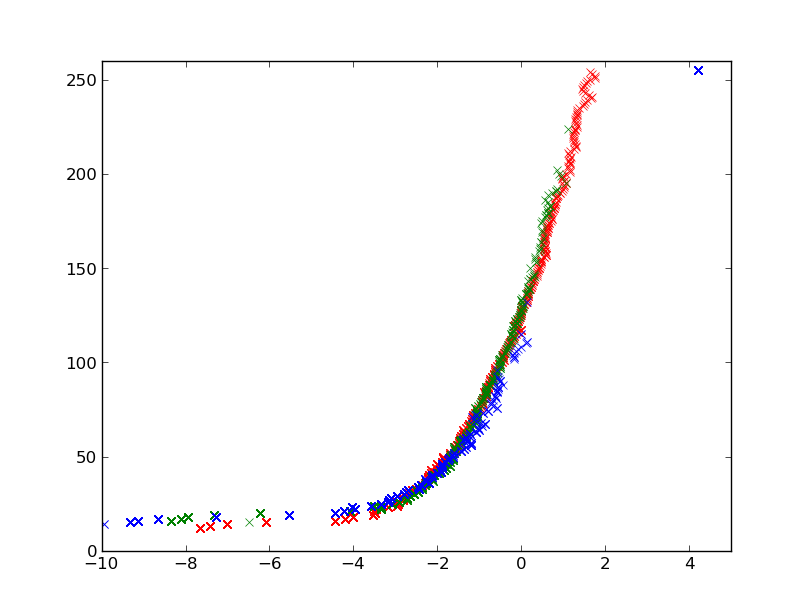
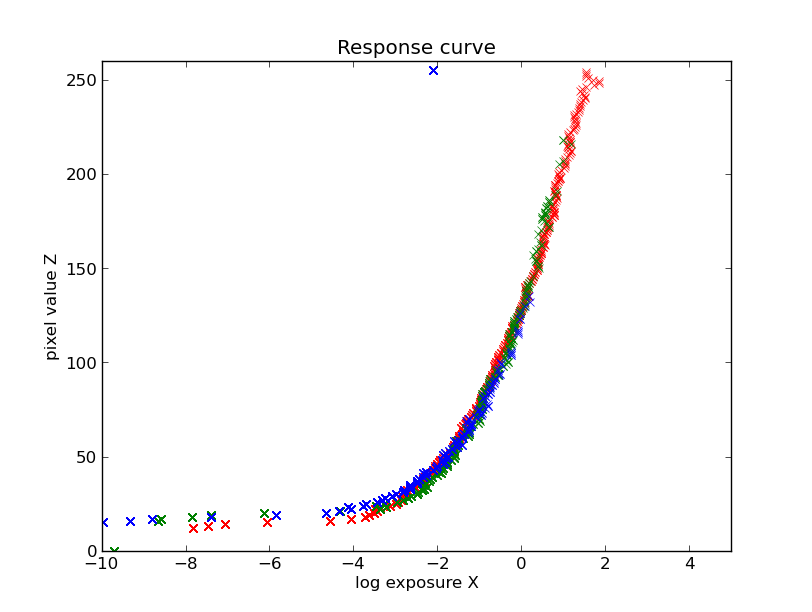
improved several graphs

diff --git a/proj1.html b/proj1.html
@@ -164,12 +164,12 @@ h2 {
 		<a href="graphs/canal_lambda_1000.png"><img class="graph" src="graphs/canal_lambda_1000.png"/></a>
 		<br><br><b>Stanford memorial church</b> ( λ = 35 )<br>
 		<a href="graphs/memorial_lambda_35.png"><img class="large_graph" src="graphs/memorial_lambda_35.png"/></a>
-		<br><br><b>St Louis Arch</b> ( λ = 167 )<br>
-		<a href="graphs/arch_lambda_167.png"><img class="large_graph" src="graphs/arch_lambda_167.png"/></a>
-		<br><br><b>Trees</b> ( λ = 189 )<br>
-		<a href="graphs/trees_lambda_189.png"><img class="large_graph" src="graphs/trees_lambda_189.png"/></a>
-		<br><br><b>Grand Canal</b> ( λ = 106 )<br>
-		<a href="graphs/canal_lambda_106.png"><img class="large_graph" src="graphs/canal_lambda_106.png"/></a>
+		<br><br><b>St Louis Arch</b> ( λ = 218 )<br>
+		<a href="graphs/arch_lambda_167.png"><img class="large_graph" src="graphs/arch_lambda_218.png"/></a>
+		<br><br><b>Trees</b> ( λ = 186 )<br>
+		<a href="graphs/trees_lambda_186.png"><img class="large_graph" src="graphs/trees_lambda_186.png"/></a>
+		<br><br><b>Grand Canal</b> ( λ = 115 )<br>
+		<a href="graphs/canal_lambda_115.png"><img class="large_graph" src="graphs/canal_lambda_115.png"/></a>
 		</p>
 		<p>
 		<h3> Sampling of pixels </h3>

diff --git a/readImages.py b/readImages.py
@@ -16,7 +16,7 @@ n = 256 #number of possible RGB values
 Zmin = 0 #minimum possible RGB value
 Zmax = 255 #maximum possible RGB value
 Zmid = (Zmin+Zmax)/2 #halfway between min and max possible values
-samplingMethod = "random" #which method to sample pixels for construction of response curve
+samplingMethod = "intensity" #which method to sample pixels for construction of response curve
 
 #returns red,green,blue pixel values from images files at different exposure times
 #also generates the ln(delta_t) array and the weight array
@@ -165,8 +165,8 @@ def plotZandG(z,g,color):
 
 
 if __name__=="__main__":
-#	zRed,zGreen,zBlue,B,w,finalRed,finalGreen,finalBlue,imHeight,imWidth,meanNoiseValue = getPixelArrayFromFiles('images','Trees.txt',100)
-	zRed,zGreen,zBlue,B,w,finalRed,finalGreen,finalBlue,imHeight,imWidth,meanNoiseValue = getPixelArrayFromFiles('memorial','memorial.hdr_image_list.txt',100)
+	zRed,zGreen,zBlue,B,w,finalRed,finalGreen,finalBlue,imHeight,imWidth,meanNoiseValue = getPixelArrayFromFiles('images','Canal.txt',100)
+#	zRed,zGreen,zBlue,B,w,finalRed,finalGreen,finalBlue,imHeight,imWidth,meanNoiseValue = getPixelArrayFromFiles('memorial','memorial.hdr_image_list.txt',100)
 	l = smoothness(meanNoiseValue,imHeight,imWidth)
 #	l=1
 	gRed,eRed=rfsolve(zRed,B,l,w,16)
